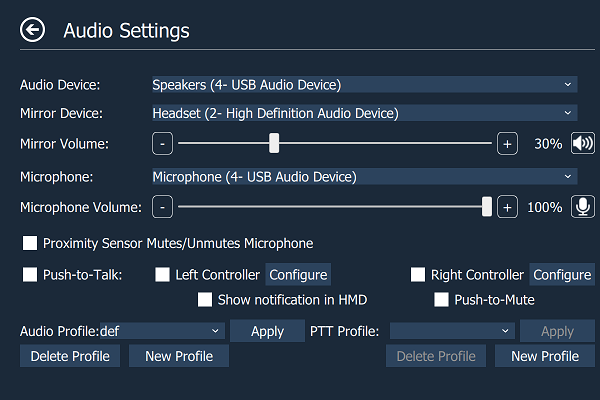
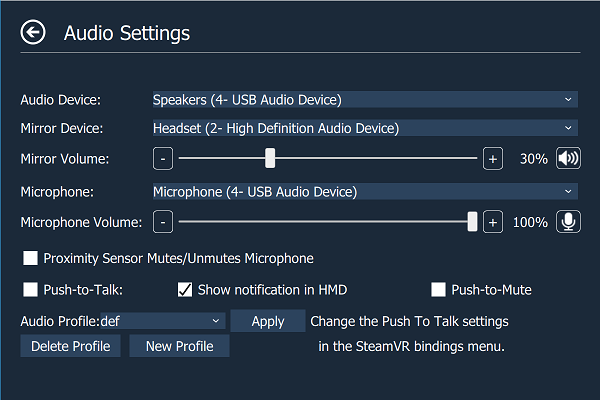
Remove deprecated elements from AudioPage
There are still many elements remaining from the old input system.
These have not been removed due to time constraints. They should
be removed as part of a general clean up process.

The PTT profile buttons have been replaced with a text telling users
to use the SteamVR bindings interface. This is for people who don't
read changelogs.

diff --git a/src/res/qml/audio_page/profiles/ProfileButtons.qml b/src/res/qml/audio_page/profiles/ProfileButtons.qml
@@ -10,16 +10,8 @@ ColumnLayout {
         id: audioMessageDialog
     }
 
-    PttDeleteProfileDialog {
-        id: pttDeleteProfileDialog
-    }
-
     AudioDeleteProfileDialog {
         id: audioDeleteProfileDialog
-    }
-
-    PttNewProfileDialog {
-        id: pttNewProfileDialog
     }
 
     AudioNewProfileDialog {
@@ -61,38 +53,9 @@ ColumnLayout {
                 }
             }
         }
-
         MyText {
-            text: "PTT Profile:"
-            Layout.preferredWidth: 150
-        }
-
-        MyComboBox {
-            id: pttProfileComboBox
-            Layout.preferredWidth: 250
-            model: [""]
-            onCurrentIndexChanged: {
-                if (currentIndex > 0) {
-                    pttApplyProfileButton.enabled = true
-                    pttDeleteProfileButton.enabled = true
-                } else {
-                    pttApplyProfileButton.enabled = false
-                    pttDeleteProfileButton.enabled = false
-                }
-            }
-        }
-
-        MyPushButton {
-            id: pttApplyProfileButton
-            enabled: true
-            Layout.preferredWidth: 150
-            text: "Apply"
-            onClicked: {
-                if (pttProfileComboBox.currentIndex > 0) {
-                    AudioTabController.applyPttProfile(
-                                pttProfileComboBox.currentIndex - 1)
-                }
-            }
+            // Text continues in next RowLayout.
+            text: "Change the Push To Talk settings"
         }
     }
     RowLayout {
@@ -117,62 +80,27 @@ ColumnLayout {
                 audioNewProfileDialog.openPopup()
             }
         }
-        Item {
-            Layout.fillWidth: true
-        }
-        MyPushButton {
-            id: pttDeleteProfileButton
-            enabled: true
-            Layout.preferredWidth: 200
-            text: "Delete Profile"
-            onClicked: {
-                if (pttProfileComboBox.currentIndex > 0) {
-                    pttDeleteProfileDialog.profileIndex = pttProfileComboBox.currentIndex - 1
-                    pttDeleteProfileDialog.open()
-                }
-            }
-        }
-        MyPushButton {
-            Layout.preferredWidth: 200
-            text: "New Profile"
-            onClicked: {
-                pttNewProfileDialog.openPopup()
-            }
+        MyText {
+            // Text continues from RowLayout above.
+            text: "\t\tin the SteamVR bindings menu."
         }
     }
     Component.onCompleted: {
-        reloadPttProfiles()
         reloadAudioProfiles()
     }
     Connections {
         target: AudioTabController
-        onPttProfilesUpdated: {
-            reloadPttProfiles()
-        }
         onAudioProfilesUpdated: {
             reloadAudioProfiles()
         }
         onAudioProfileAdded: {
             audioProfileComboBox.currentIndex = AudioTabController.getAudioProfileCount()
         }
-        onPttProfileAdded: {
-            pttProfileComboBox.currentIndex = AudioTabController.getPttProfileCount()
-        }
         onDefaultProfileDisplay: {
             audioProfileComboBox.currentIndex = AudioTabController.getDefaultAudioProfileIndex(
                         ) + 1
         }
     }
-    function reloadPttProfiles() {
-        var profiles = [""]
-        var profileCount = AudioTabController.getPttProfileCount()
-        for (var i = 0; i < profileCount; i++) {
-            profiles.push(AudioTabController.getPttProfileName(i))
-        }
-        pttProfileComboBox.currentIndex = 0
-        pttProfileComboBox.model = profiles
-    }
-
     function reloadAudioProfiles() {
         var profiles = [""]
         var profileCount = AudioTabController.getAudioProfileCount()

diff --git a/src/res/qml/audio_page/push_to_talk/PttButtons.qml b/src/res/qml/audio_page/push_to_talk/PttButtons.qml
@@ -6,6 +6,7 @@ import "../../common"
 
 ColumnLayout {
     RowLayout {
+        Layout.fillWidth: true
         PttControllerConfigDialog {
             id: pttControllerConfigDialog
             pttControllerConfigClass: AudioTabController
@@ -13,47 +14,16 @@ ColumnLayout {
 
         MyToggleButton {
             id: audioPttEnabledToggle
-            Layout.preferredWidth: 260
+            //Layout.preferredWidth: 260
+            Layout.fillWidth: true
             text: "Push-to-Talk:"
             onClicked: {
                 AudioTabController.pttEnabled = checked
             }
         }
         MyToggleButton {
-            id: audioPttLeftControllerToggle
-            text: "Left Controller"
-            onClicked: {
-                AudioTabController.setPttLeftControllerEnabled(checked, false)
-            }
-        }
-        MyPushButton {
-            text: "Configure"
-            onClicked: {
-                pttControllerConfigDialog.openPopup(0)
-            }
-        }
-        Item {
-            Layout.fillWidth: true
-        }
-        MyToggleButton {
-            id: audioPttRightControllerToggle
-            text: "Right Controller"
-            onClicked: {
-                AudioTabController.setPttRightControllerEnabled(checked, false)
-            }
-        }
-        MyPushButton {
-            text: "Configure"
-            onClicked: {
-                pttControllerConfigDialog.openPopup(1)
-            }
-        }
-    }
-    RowLayout {
-
-        MyToggleButton {
             id: audioPttShowNotificationToggle
-            Layout.leftMargin: 350
+            Layout.fillWidth: true
             text: "Show notification in HMD"
             onCheckedChanged: {
                 AudioTabController.setPttShowNotification(checked, false)
@@ -61,7 +31,7 @@ ColumnLayout {
         }
         MyToggleButton {
             id: audioPttReverseToggle
-            Layout.leftMargin: 118
+            Layout.fillWidth: true
             text: "Push-to-Mute"
             onClicked: {
                 AudioTabController.setMicReversePtt(checked, false)
@@ -71,8 +41,6 @@ ColumnLayout {
 
     Component.onCompleted: {
         audioPttEnabledToggle.checked = AudioTabController.pttEnabled
-        audioPttLeftControllerToggle.checked = AudioTabController.pttLeftControllerEnabled
-        audioPttRightControllerToggle.checked = AudioTabController.pttRightControllerEnabled
         audioPttShowNotificationToggle.checked = AudioTabController.pttShowNotification
         audioPttReverseToggle.checked = AudioTabController.micReversePtt
     }
@@ -80,12 +48,6 @@ ColumnLayout {
         target: AudioTabController
         onPttEnabledChanged: {
             audioPttEnabledToggle.checked = AudioTabController.pttEnabled
-        }
-        onPttLeftControllerEnabledChanged: {
-            audioPttLeftControllerToggle.checked = AudioTabController.pttLeftControllerEnabled
-        }
-        onPttRightControllerEnabledChanged: {
-            audioPttRightControllerToggle.checked = AudioTabController.pttRightControllerEnabled
         }
         onMicReversePttChanged: {
             audioPttReverseToggle.checked = AudioTabController.micReversePtt
